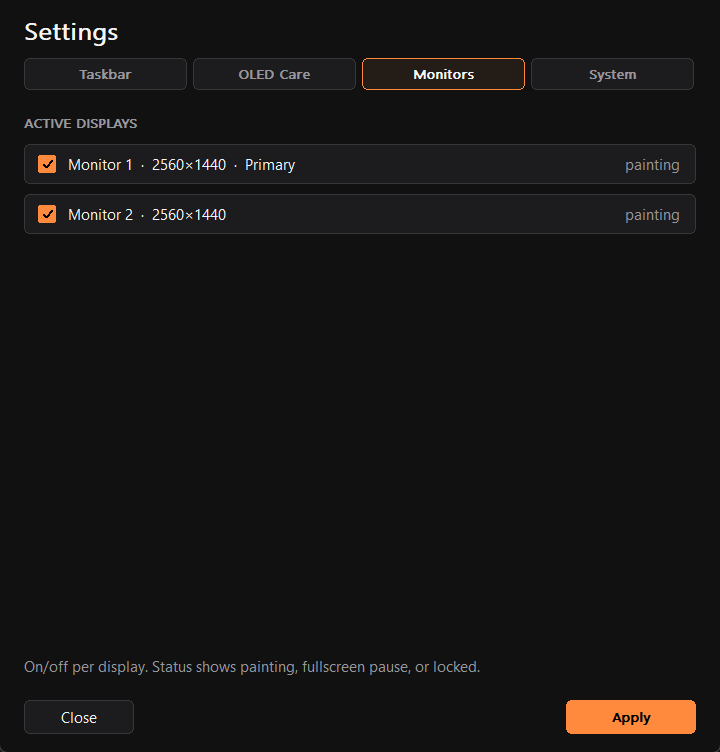
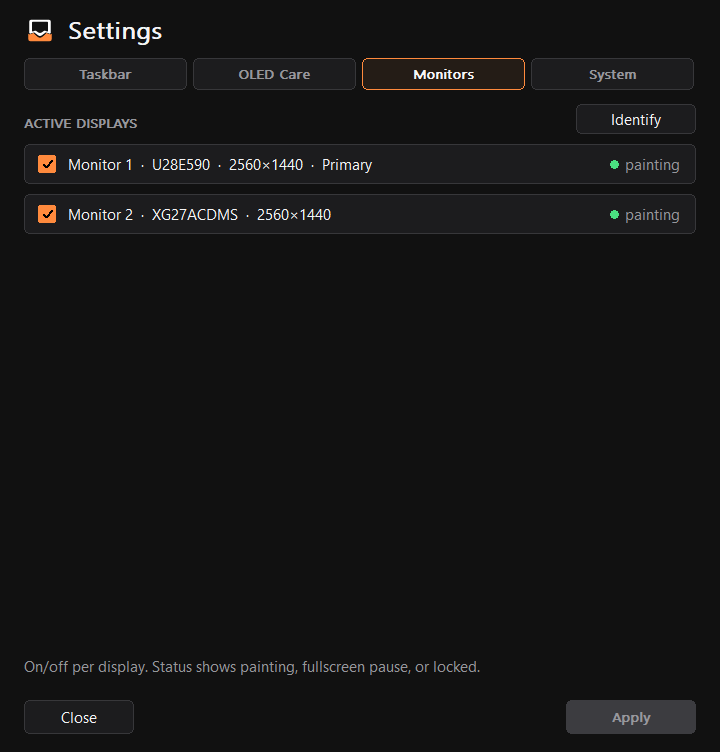
Settings screenshots from 0.1.39: model names, Identify, new header.

diff --git a/site/src/components/SettingsShot.tsx b/site/src/components/SettingsShot.tsx
@@ -23,9 +23,9 @@ const SHOTS: Record<
   },
   monitors: {
     src: "/images/settings/settings-monitors.png",
-    alt: "Phostide Settings — Monitors tab with live paint status",
+    alt: "Phostide Settings — Monitors tab with display model names, Identify and live paint status",
     defaultCaption:
-      "Monitors — on/off plus live status (painting / fullscreen / locked / off / paused)",
+      "Monitors — model names, Identify, on/off and live status (painting / fullscreen / locked / off / paused)",
   },
   system: {
     src: "/images/settings/settings-system.png",

diff --git a/README.md b/README.md
@@ -65,9 +65,9 @@ Rendering mode is app-global. Care only paints monitors left on. Tray left-click
 <p align="center"><em>OLED Care — pause while locked / in fullscreen (defaults on)</em></p>
 
 <p align="center">
-  <img src="assets/readme/settings/settings-monitors.png" alt="Phostide Settings — Monitors with live paint status" width="720" />
+  <img src="assets/readme/settings/settings-monitors.png" alt="Phostide Settings — Monitors with display model names, Identify and live paint status" width="720" />
 </p>
-<p align="center"><em>Monitors — on/off plus live painting / fullscreen / locked status</em></p>
+<p align="center"><em>Monitors — model names, Identify, on/off and live painting / fullscreen / locked status</em></p>
 
 <details>
 <summary>Taskbar and System tabs</summary>
